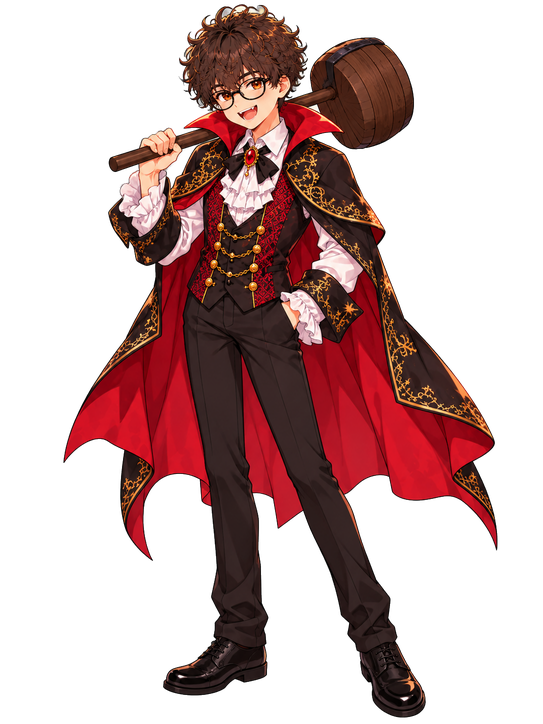
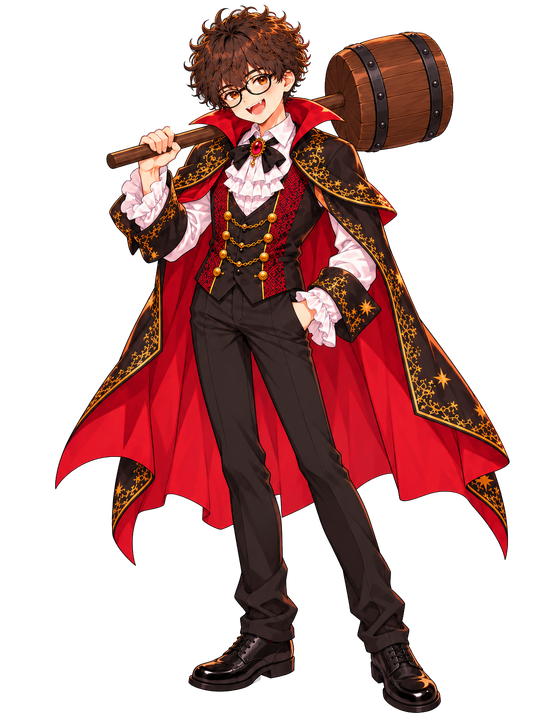
ドラキュラれんとんのハンマーを全コマ同じ形に描き直し・台座の高さ調整

Changed region(s): [[0.0884, 0.0, 0.9429, 1.0]]

diff --git a/index.html b/index.html
@@ -33,7 +33,7 @@ const FONT = '"Hiragino Maru Gothic ProN","Hiragino Sans","Yu Gothic UI","Meiryo
 
 /* ---------------- 配置（ワールド座標・zoom=1 のとき） ---------------- */
 const GROUND = 700;            // 地面（ドラキュラの足元・転がる床）
-const PED_TOP = 568;           // 台座の上面（塔の土台・狼の着地点）
+const PED_TOP = 588; /* 2026-10-05 描き直した振り抜き絵のハンマー高さに合わせて568→588 */           // 台座の上面（塔の土台・狼の着地点）
 const BW = 84, BH = 50;        // かぼちゃ1段の幅・高さ
 const TX = 232;                // 塔の中心x
 const DX = 100;                // ドラキュラの立ち位置x（ハンマーの頭が最下段に当たる位置）
@@ -80,11 +80,13 @@ const TXT = {
 /* ---------------- 素材（置くだけで差し替わる） ---------------- */
 // ax/ay = アンカー（足元中央など）を画像サイズに対する比率で持つ。原寸=1086x1448 / 1254x1254 で実測
 const IMG = {
-  d_idle:   { f: 'chara/chara_dracula_01_idle.png',    ax: 600 / 1086, ay: 1434 / 1448, ow: 1086 },
-  d_windup: { f: 'chara/chara_dracula_04_windup.png',  ax: 584 / 1086, ay: 1414 / 1448, ow: 1086 },
-  d_swing:  { f: 'chara/chara_dracula_02_swing.png',   ax: 502 / 1086, ay: 1364 / 1448, ow: 1086 },
-  d_hi:     { f: 'chara/chara_dracula_03_hitatch.png', ax: 600 / 1086, ay: 1424 / 1448, ow: 1086 },
-  d_sad:    { f: 'chara/chara_dracula_05_sad.png',     ax: 590 / 1086, ay: 1427 / 1448, ow: 1086 },   // 倒れたときのしょんぼり（つる指示 2026-10-05）
+  // 2026-10-05 ハンマー頭部の統一をCodex描き起こしでやり直し、キャンバスを1586x1788→元の1086x1448に戻した。
+  // ax/ayは新しい各絵の足元（2本の足の中点）をnumpyで実測して再計算。ow は「原寸のキャンバス幅」=1086。
+  d_idle:   { f: 'chara/chara_dracula_01_idle.png',    ax: 646 / 1086, ay: 1425 / 1448, ow: 1086 },
+  d_windup: { f: 'chara/chara_dracula_04_windup.png',  ax: 601 / 1086, ay: 1366 / 1448, ow: 1086 },
+  d_swing:  { f: 'chara/chara_dracula_02_swing.png',   ax: 490 / 1086, ay: 1351 / 1448, ow: 1086 },
+  d_hi:     { f: 'chara/chara_dracula_03_hitatch.png', ax: 675 / 1086, ay: 1424 / 1448, ow: 1086 },
+  d_sad:    { f: 'chara/chara_dracula_05_sad.png',     ax: 652 / 1086, ay: 1418 / 1448, ow: 1086 },   // 倒れたときのしょんぼり（つる指示 2026-10-05）
   w_smile:  { f: 'chara/chara_wolf_01_smile.png',  ax: 622 / 1254, ay: 1209 / 1254, ow: 1254 },
   w_wob:    { f: 'chara/chara_wolf_02_wobble.png', ax: 600 / 1254, ay: 1181 / 1254, ow: 1254 },
   w_fall:   { f: 'chara/chara_wolf_03_fall.png',   ax: 628 / 1254, ay: 607 / 1254,  ow: 1254 },
